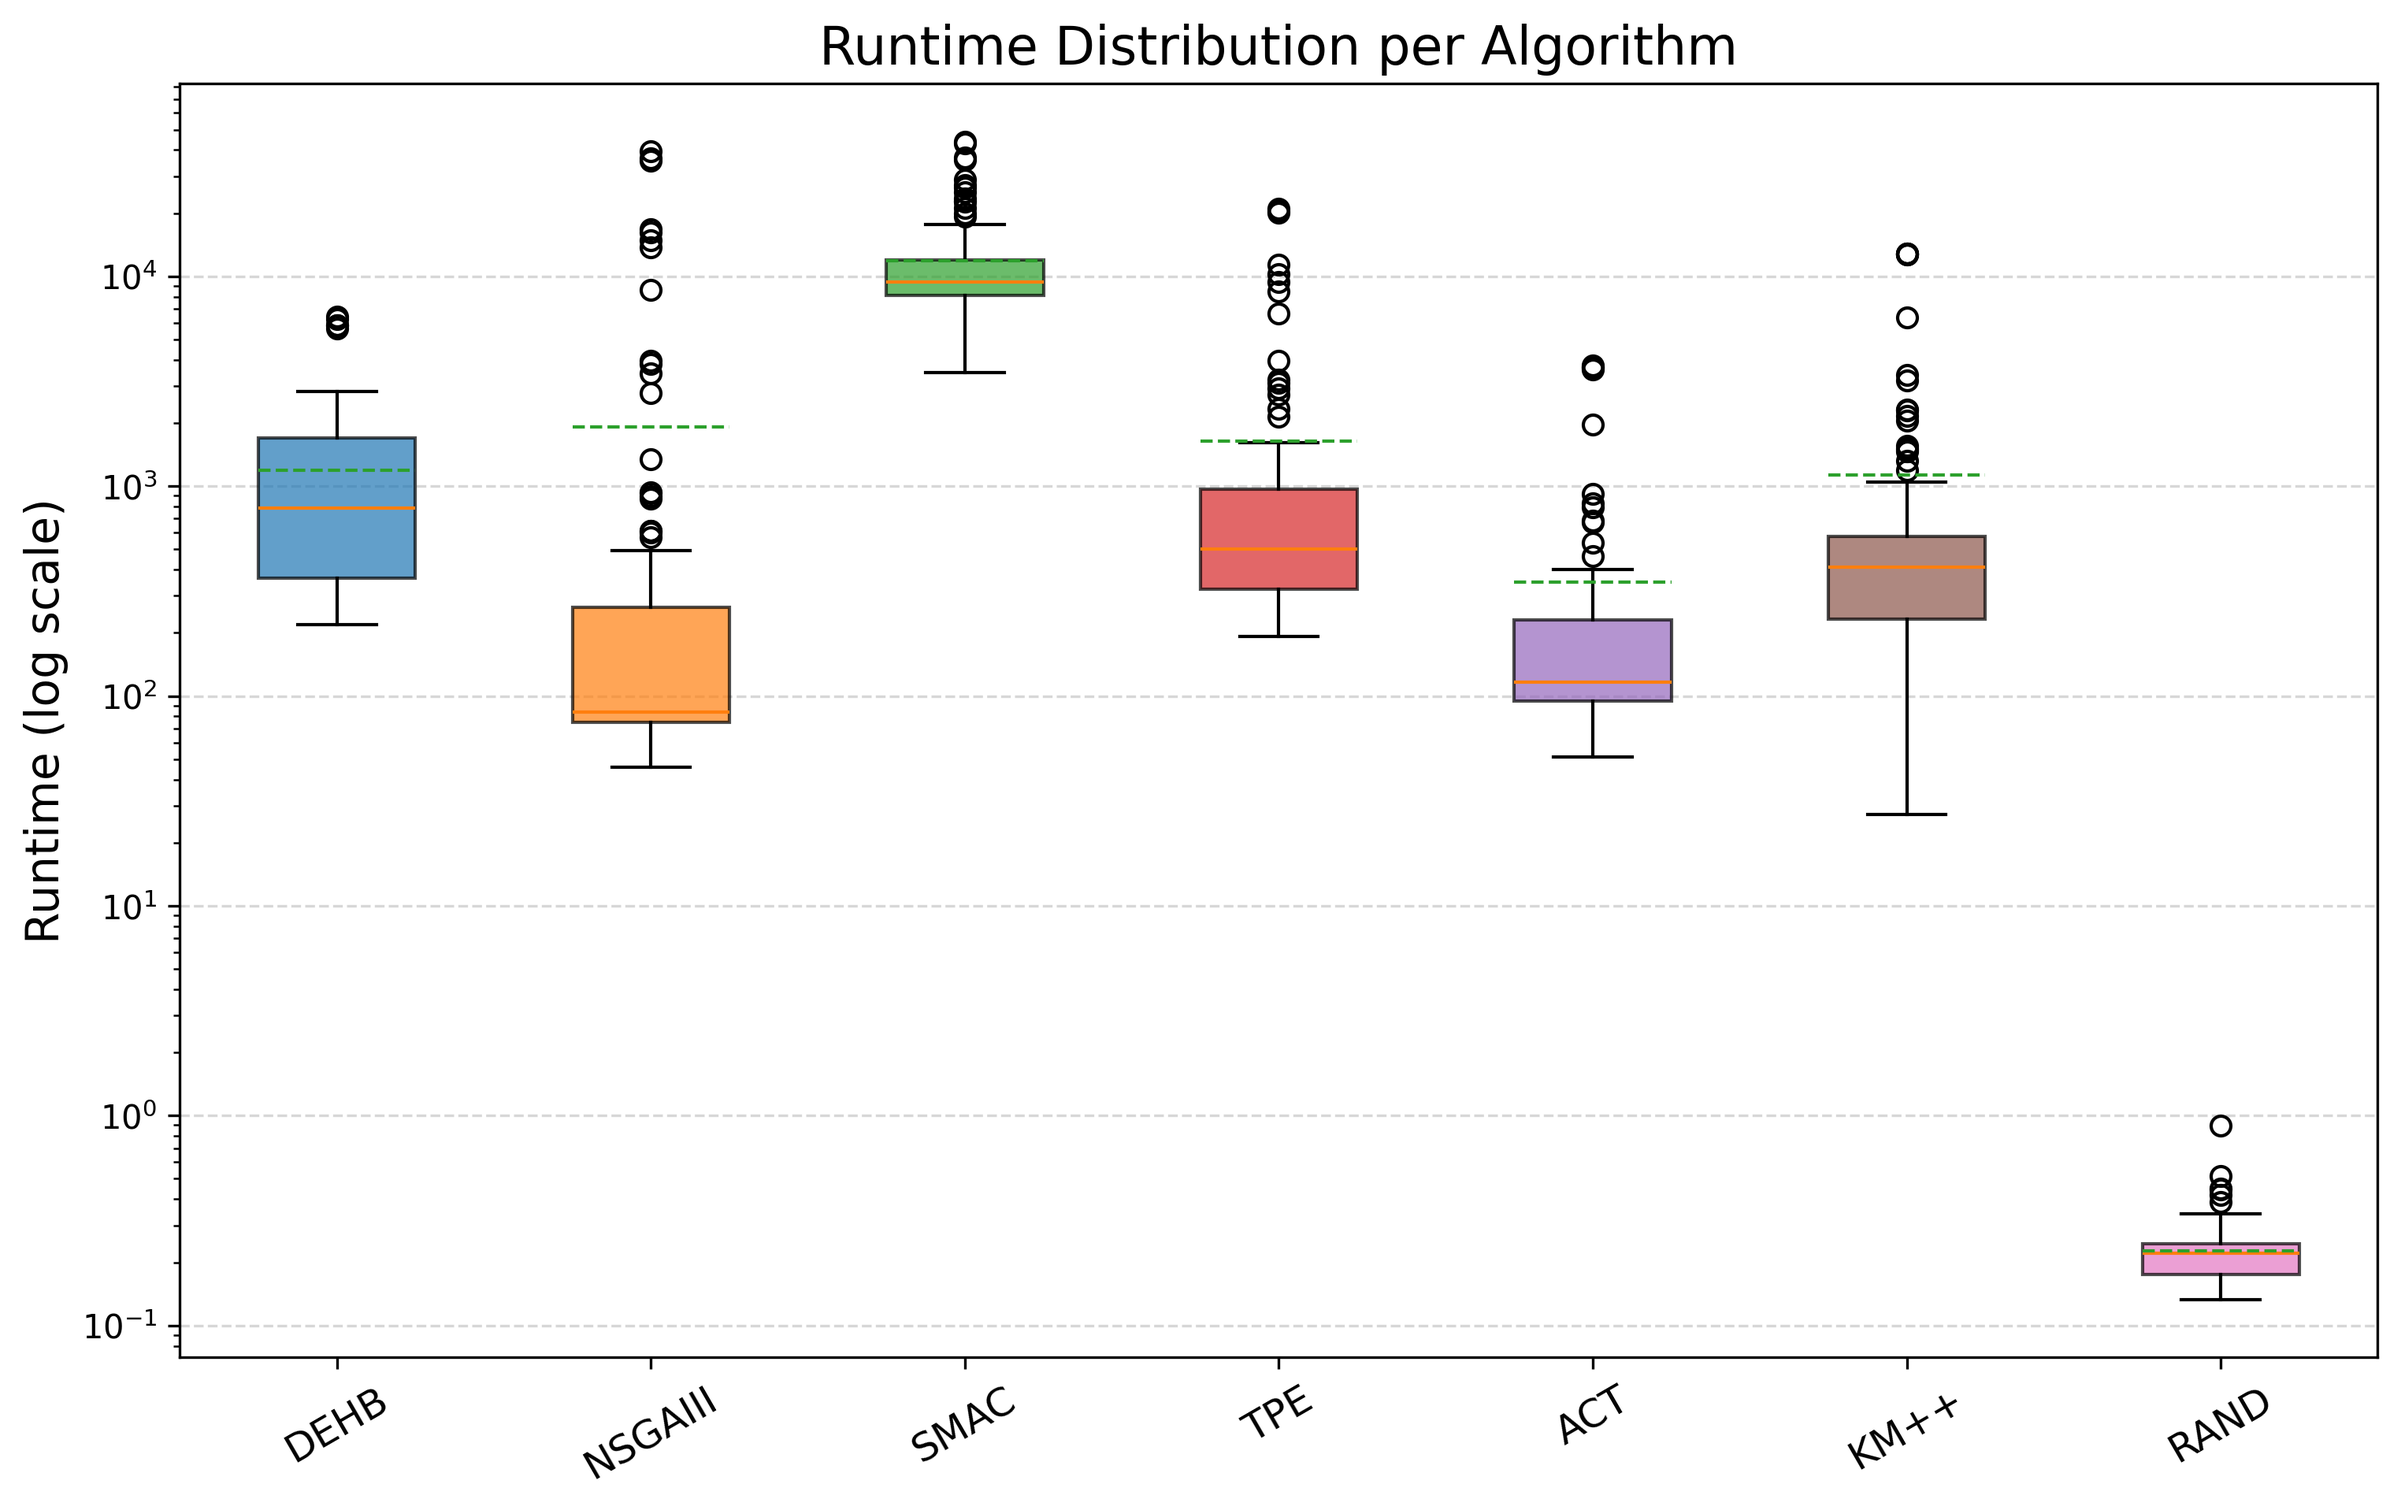
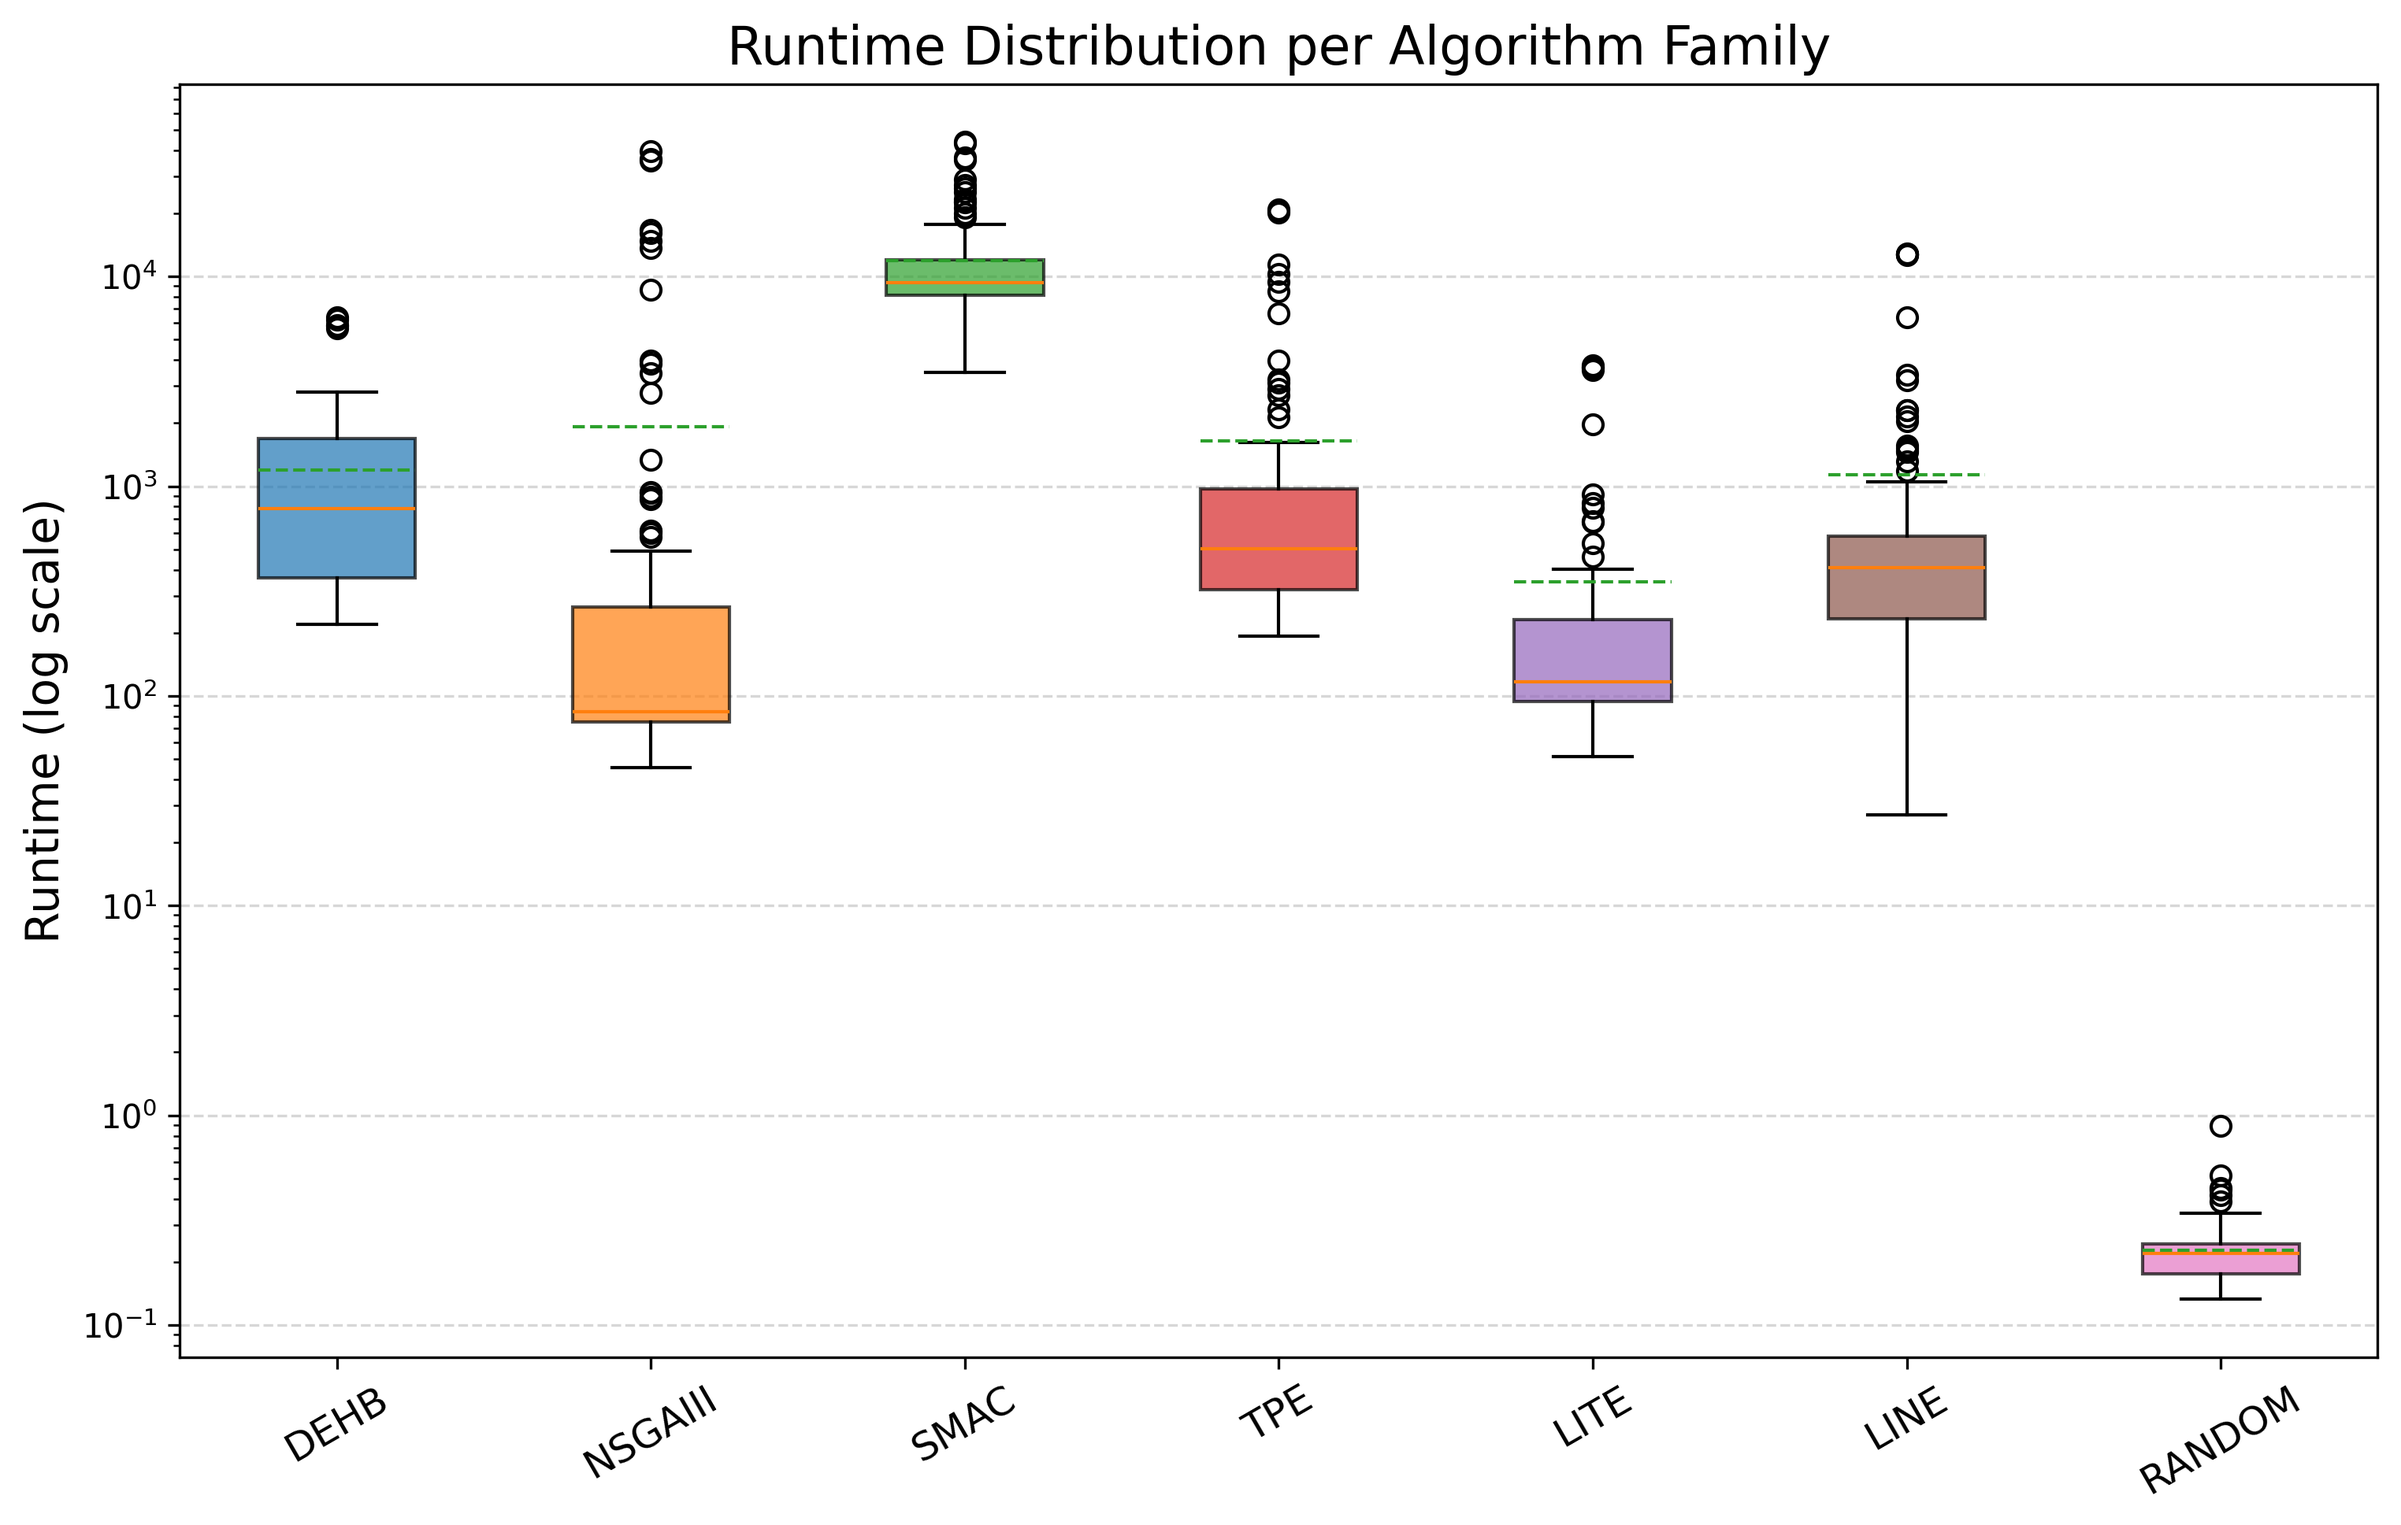
fixed

diff --git a/experiments/performance_box.py b/experiments/performance_box.py
@@ -50,6 +50,17 @@ for col in time_cols:
     if not m:
         continue
     family = m.group(1)
+
+    # ===========================================
+    # Apply Renaming Rules
+    # ===========================================
+    if family.upper() == "ACT":
+        family = "LITE"
+    elif family.upper() in ["KM++", "KMPLUS", "KM_PP"]:
+        family = "LINE"
+    elif family.upper() in ["RAND", "RANDOM"]:
+        family = "RANDOM"
+
     family_groups.setdefault(family, []).append(col)
 
 if not family_groups:
@@ -110,7 +121,7 @@ for patch, color in zip(box['boxes'], colors):
 plt.yscale("log")
 plt.ylabel("Runtime (log scale)", fontsize=14)
 plt.xticks(rotation=30, fontsize=12)
-plt.title("Runtime Distribution per Algorithm", fontsize=16)
+plt.title("Runtime Distribution per Algorithm Family", fontsize=16)
 
 plt.grid(axis='y', linestyle='--', alpha=0.5)
 
